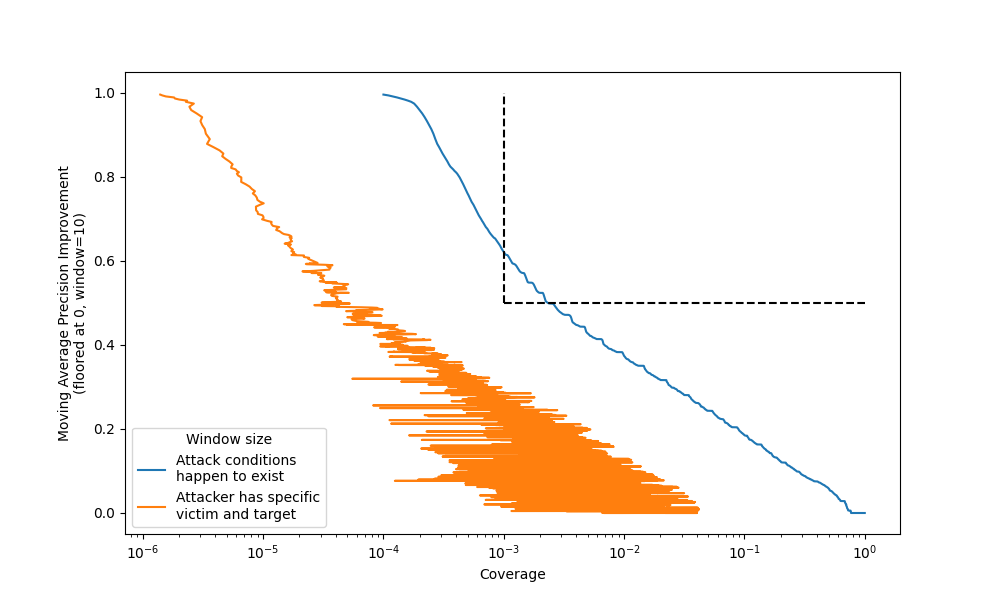
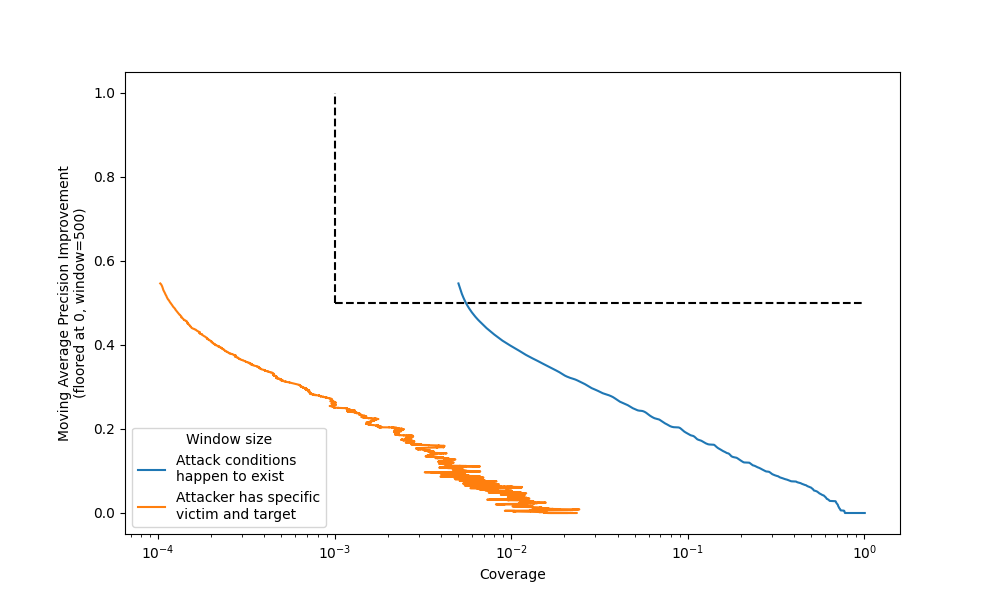
asd

diff --git a/suppress_threshold_attack.py b/suppress_threshold_attack.py
@@ -257,31 +257,39 @@ def make_bin_scatterplot(df_bin, color_by, label, filename, pi_floor):
 def plot_move_avg(df):
     # Sort the DataFrame by the 'pi_fl' column in descending order
     df_sorted = df.sort_values('pi_fl', ascending=False).reset_index(drop=True)
-    win = 500
+    win = 50
 
     df_sorted['moving_avg_pi_fl'] = df_sorted['pi_fl'].rolling(window=win).mean()
     df_sorted['moving_avg_capt'] = df_sorted['capt'].rolling(window=win).mean()
+    df_sorted['moving_avg_frac_tar'] = df_sorted['frac_tar'].rolling(window=win).mean()
 
     # Drop rows with NaN values in 'moving_avg' columns
-    df_sorted = df_sorted.dropna(subset=['moving_avg_pi_fl', 'moving_avg_capt'])
+    df_sorted = df_sorted.dropna(subset=['moving_avg_pi_fl', 'moving_avg_capt', 'moving_avg_frac_tar'])
 
     # Compute the CDF
     df_sorted['cdf'] = (df_sorted.index + 1) / len(df_sorted)
     df_sorted['cdf_to_capt'] = df_sorted['cdf'] * df_sorted['moving_avg_capt']
 
-    # Plot the moving average against the CDF
+    # Plot the pi_fl moving average against the CDF
     plt.figure(figsize=(10, 6))
     plt.plot(df_sorted['cdf'], df_sorted['moving_avg_pi_fl'], label="Attack conditions\nhappen to exist")
     plt.plot(df_sorted['cdf_to_capt'], df_sorted['moving_avg_pi_fl'], label="Attacker has specific\nvictim and target")
     plt.hlines(0.5, 0.001, 1, colors='black', linestyles='--')
     plt.vlines(0.001, 0.5, 1.0, colors='black', linestyles='--')
-    plt.legend(title='Window size', loc='lower left')
+    plt.legend(loc='lower left')
     plt.xscale('log')
     plt.xlabel('Coverage')
     plt.ylabel(f'Moving Average Precision Improvement\n(floored at 0, window={win})')
-
-    # Save the plot
     plt.savefig(os.path.join(attack_path, 'pi_fl_mv_avg.png'))
+    plt.close()
+
+    # Plot the frac_tar moving average against the CDF
+    plt.figure(figsize=(10, 6))
+    plt.plot(df_sorted['cdf'], df_sorted['moving_avg_frac_tar'])
+    plt.xscale('log')
+    plt.xlabel('Coverage')
+    plt.ylabel(f'Moving Average Precision Improvement\n(floored at 0, window={win})')
+    plt.savefig(os.path.join(attack_path, 'frac_tar_mv_avg.png'))
     plt.close()
 
 def do_plots():
